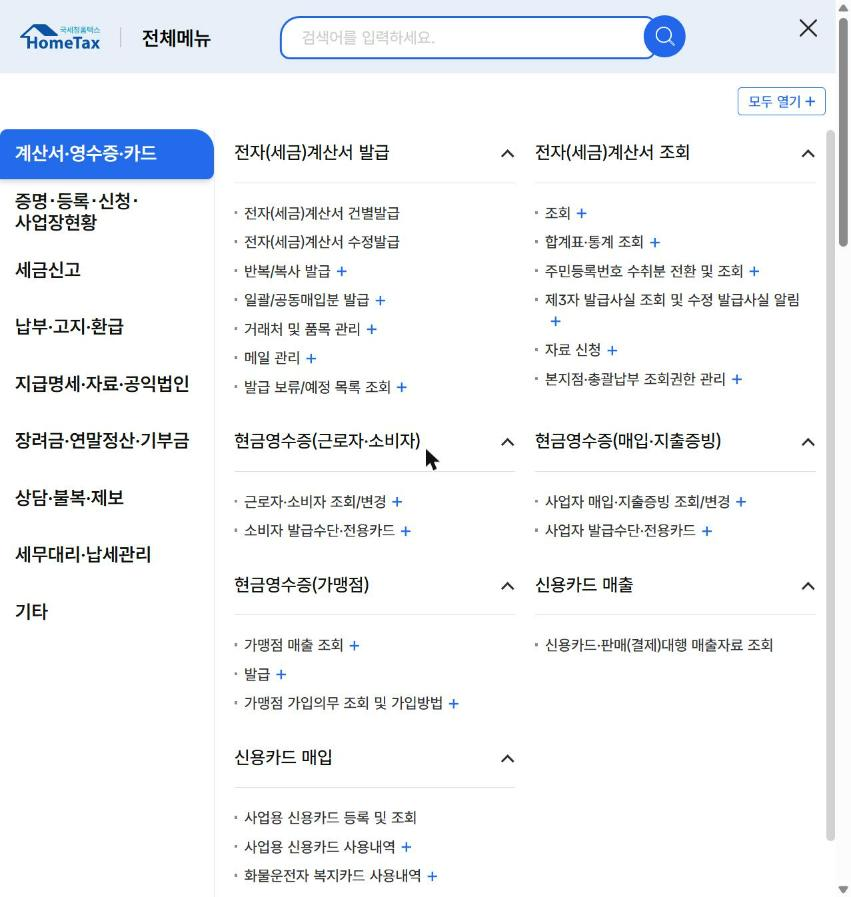
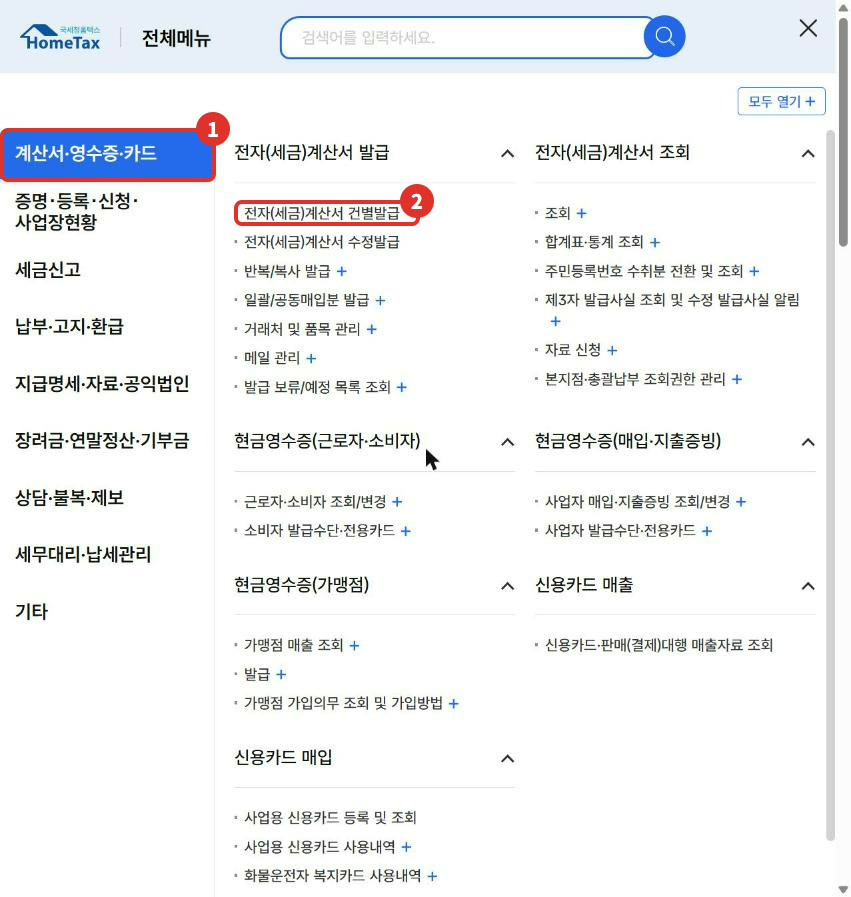
전자세금계산서 글 캡처에 빨간 순서 표시

Changed region(s): [[0.0, 0.1249, 0.275, 0.2185], [0.275, 0.1873, 0.5194, 0.2497]]

diff --git a/_posts/2026-11-07-hometax-e-tax-invoice.md b/_posts/2026-11-07-hometax-e-tax-invoice.md
@@ -57,17 +57,17 @@ screen_checked: 2026-11
 > 📅 **2026년 11월 기준 화면**이에요(운영자 본인 사업자 계정). 메뉴 이름은 바뀔 수 있어요.
 
 1. 홈택스에 **사업자로 로그인**해요. 운영자는 사업자 인증서로 로그인했어요.
-2. 오른쪽 위 **전체메뉴**를 열고 **계산서·영수증·카드 > 전자(세금)계산서 발급 > 전자(세금)계산서 건별발급**을 눌러요.
+2. 오른쪽 위 **전체메뉴**를 열고 ① **계산서·영수증·카드** → 전자(세금)계산서 발급의 ② **전자(세금)계산서 건별발급**을 눌러요.
 
    ![홈택스 전체메뉴의 계산서·영수증·카드에서 전자(세금)계산서 발급, 건별발급 위치](/assets/images/posts/hometax-e-tax-invoice/01-allmenu.jpg)
 
-3. 위쪽에서 **종류**(보통은 일반)와 **공급받는자 구분**(사업자등록번호)을 골라요. 공급자(내 정보)는 미리 채워져 있어요.
-4. 오른쪽 **공급받는 자 등록번호**를 넣고 **확인**을 누른 뒤, 상호·성명 등 빈칸을 채워요.
-5. **작성일자**와 품목 줄의 **일·품목·수량·단가**를 넣어요. 수량과 단가를 넣으면 공급가액과 세액이 자동으로 채워졌어요(2026년 11월 운영자 확인).
+3. 위쪽에서 ① **종류**(보통은 일반)와 ② **공급받는자 구분**(사업자등록번호)을 골라요. 공급자(내 정보)는 미리 채워져 있어요.
+4. 오른쪽 ③ **공급받는 자 등록번호**를 넣고 **확인**을 누른 뒤, 상호·성명 등 빈칸을 채워요.
+5. ④ **작성일자**와 ⑤ 품목 줄의 **일·품목·수량·단가**를 넣어요. 수량과 단가를 넣으면 공급가액과 세액이 자동으로 채워졌어요(2026년 11월 운영자 확인).
 
    ![전자세금계산서 건별발급 화면에 가상의 거래처와 품목을 넣은 모습: 공급가액 100,000원, 세액 10,000원, 합계 110,000원 (공급자·거래처 정보는 가상값)](/assets/images/posts/hometax-e-tax-invoice/02-filled.jpg)
 
-6. 아래에서 **이 금액을 청구/영수 함**을 고르고 **발급미리보기**로 내용을 확인해요.
+6. 아래에서 ① **이 금액을 청구/영수 함**을 고르고 ② **발급미리보기**로 내용을 확인해요. 미리보기 창에서는 ① 공급받는 자 정보와 ② 금액을 보고, 맞으면 ③ **발급하기**예요.
 
    ![건별발급 화면 아래쪽의 청구·영수 선택과 초기화, 발급미리보기, 발급보류, 발급하기 버튼](/assets/images/posts/hometax-e-tax-invoice/03-buttons.jpg)
 
